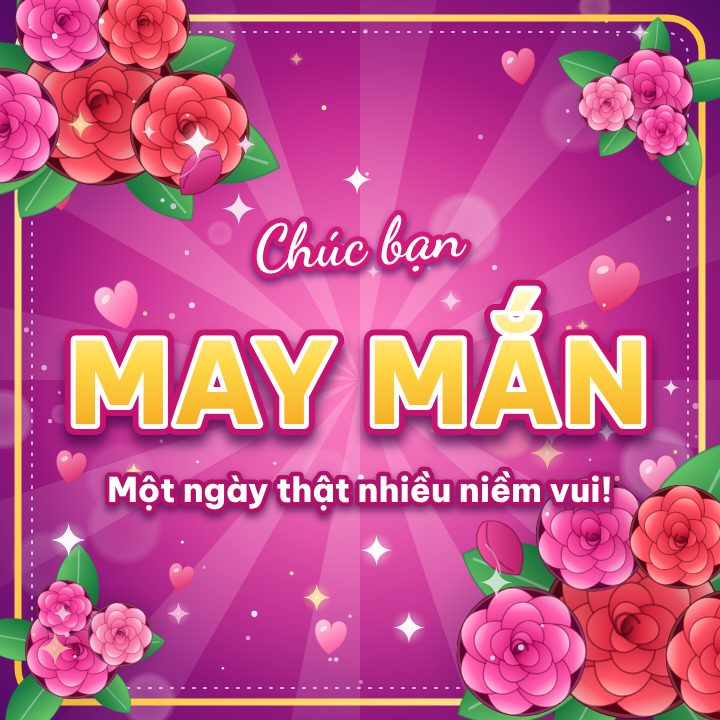
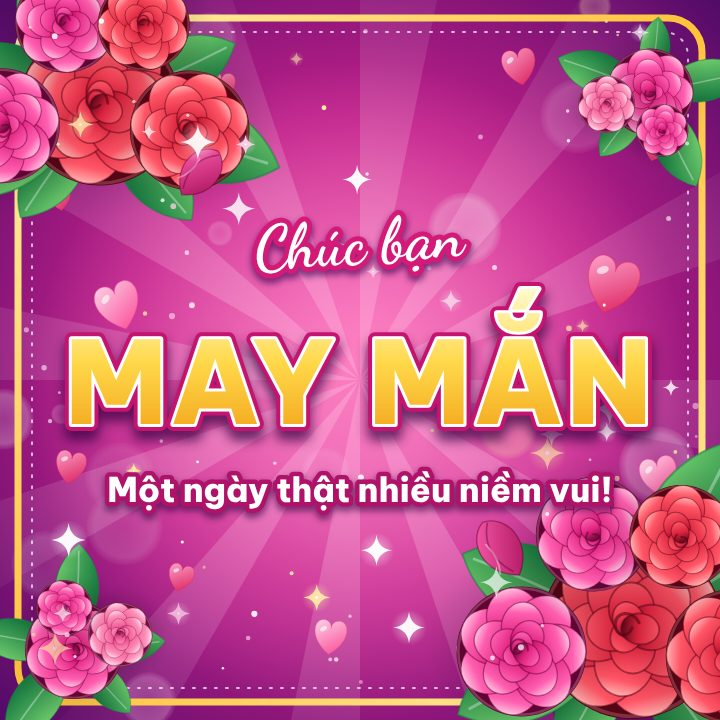
WIP: sửa tiếp sau kiểm thử (audio.js, README, thẻ meme "may mắn")
Bản chụp giữa chừng, workflow sửa lỗi vẫn đang chạy.

Claude-Session: https://claude.ai/code/session_011U6fSh6vttNPLrgiiHWRXL

Changed region(s): [[0.0917, 0.3667, 0.9167, 0.6417]]

diff --git a/public/js/audio.js b/public/js/audio.js
@@ -85,12 +85,14 @@
   }
 
   /* Tiếng hù cho mốc 666: cú "bùm" trầm + tiếng rít răng cưa tụt xuống + chút nhiễu. Tổng ~1.4 giây, không đuôi vang.
-   * Đỉnh sau bộ nén đo được ~0.85 (dưới mức méo tiếng), đủ giật mình mà không chói tai. */
+   * Đo bằng ebur128 thì với mức 0.8 cũ nó to hơn tiếng chuông 3 LU và hơn tiếng mõ 15 LU; mức 0.5 (-4 dB) đưa nó về gần tiếng chuông:
+   * vẫn đủ giật mình mà không làm người đang nghe tiếng mõ nhỏ bị đau tai. */
+  const SCARE_GAIN = 0.5;
   function scare(t) {
     if (!live()) return; t = at(t);
     const D = 1.35, master = AC.createGain();
-    master.gain.setValueAtTime(0.0001, t); master.gain.exponentialRampToValueAtTime(0.8, t + 0.012);
-    master.gain.setValueAtTime(0.8, t + 0.75); master.gain.exponentialRampToValueAtTime(0.0001, t + D);
+    master.gain.setValueAtTime(0.0001, t); master.gain.exponentialRampToValueAtTime(SCARE_GAIN, t + 0.012);
+    master.gain.setValueAtTime(SCARE_GAIN, t + 0.75); master.gain.exponentialRampToValueAtTime(0.0001, t + D);
     master.connect(BUS);
     const boom = AC.createOscillator(), bg = AC.createGain();
     boom.type = 'sine'; boom.frequency.setValueAtTime(110, t); boom.frequency.exponentialRampToValueAtTime(32, t + 0.9);

diff --git a/tools/memes/cards/may-man.html b/tools/memes/cards/may-man.html
@@ -31,7 +31,7 @@ add(roseBunch(R, 74, 650, 0.7, ROSES.hot, { pal2: ROSES.pink, leaves: 5, spots: 
 add(glitter(R, 90, [20, 20, 700, 700], { stars: 0.35, smin: 6, smax: 18, colors: ['#fff', '#ffe9a8', '#ffd1ea', '#fff'] }));
 // chữ
 add(fancy('Chúc bạn', { x: 360, y: 262, size: 62, font: 'Dancing Script', weight: 700, fill: '#fff', out1: '#d41a78', w1: 5, shadow: '#3a0050', sd: 4, sb: 3, so: 0.6, maxW: 400, rot: -4 }));
-add(fancy('MAY MẮN', { x: 360, y: 424, size: 150, font: 'Be Vietnam Pro', weight: 800, ls: 3, fill: lg([[0, '#fffbd0'], [0.45, '#ffd84a'], [1, '#f19a12']]), out1: '#fff', w1: 5, out2: '#c4146f', w2: 6, shadow: '#32003f', sd: 9, sb: 6, so: 0.7, maxW: 600 }));
+add(fancy('MAY MẮN', { x: 360, y: 424, size: 150, font: 'Be Vietnam Pro', weight: 800, ls: 3, fill: lg([[0, '#fffbd0'], [0.45, '#ffd84a'], [1, '#f19a12']]), out1: '#fff', w1: 3, out2: '#c4146f', w2: 4, shadow: '#32003f', sd: 9, sb: 6, so: 0.7, maxW: 600 }));   // viền mảnh hơn để dấu sắc và dấu á trong chữ Ắ không dính vào nhau
 add(fancy('Một ngày thật nhiều niềm vui!', { x: 360, y: 502, size: 34, font: 'Be Vietnam Pro', weight: 800, fill: '#fff', out1: '#b0126a', w1: 4.5, shadow: '#32003f', sd: 4, sb: 3, so: 0.55, maxW: 560 }));
 finish();
 </script></body></html>

diff --git a/README.md b/README.md
@@ -44,11 +44,11 @@ Khi công đức **hôm nay** (số ở thẻ “Công đức” trên đầu tr
 | 666 | Hù: mặt quỷ phóng ra chiếm màn hình khoảng 1,4 giây (một lần chớp đỏ, rung màn hình, tiếng hù), rồi mờ đi và hiện thẻ trấn an “Hù bạn thôi! A Di Đà Phật, chúc bạn bình an 🙏”. |
 | 888, 999, 1.000, 2.000, 3.000… | Bản lớn: tiêu đề vàng to, nhiều hoa giấy hơn, cũng có giọng chúc và meme. |
 
-**Cách tính.** Máy chủ quyết định, không phải trình duyệt. Mốc tính khi một lần cộng đưa công đức hôm nay từ dưới mốc lên bằng hoặc quá mốc (mỗi lần cộng là 1 đến 15 điểm nên có thể nhảy qua đúng con số). Một lần cộng bước qua nhiều mốc thì chỉ hiện một: 666 được ưu tiên, còn lại lấy mốc cao nhất. Tải lại trang hay vào lại chùa khi đã có 700 công đức không chiếu lại mốc cũ. Công đức “hôm nay” tính lại mỗi ngày theo giờ Việt Nam, nên mốc cũng vậy. Đang có một hiệu ứng thì mốc mới xếp hàng chờ (tối đa một, 666 không bao giờ bị bỏ).
+**Cách tính.** Máy chủ quyết định, không phải trình duyệt. Mốc tính khi một lần cộng đưa công đức hôm nay từ dưới mốc lên bằng hoặc quá mốc (mỗi lần cộng là 1 đến 15 điểm nên có thể nhảy qua đúng con số). Một lần cộng bước qua nhiều mốc thì chỉ hiện một: 666 được ưu tiên, còn lại lấy mốc cao nhất. Tải lại trang hay vào lại chùa khi đã có 700 công đức không chiếu lại mốc cũ. Công đức “hôm nay” tính lại mỗi ngày theo giờ Việt Nam, nên mốc cũng vậy. Đang có một hiệu ứng (hay tab đang ẩn) thì mốc mới xếp hàng chờ: tối đa một lượt, 666 được ưu tiên hơn mọi mốc khác. Lượt chờ quá 60 giây (tab bị ẩn lâu) thì không chiếu nữa, kể cả 666, chỉ hiện dòng báo nhỏ “Bạn đã đạt N công đức”.
 
-**Kho meme.** Thả ảnh `.jpg .jpeg .png .webp .gif .avif` vào `public/img/memes/` là tự có, không cần sửa mã (tối đa 200 ảnh, ảnh vuông khoảng 720px đẹp nhất). Máy chủ đọc lại thư mục sau tối đa 30 giây, người chơi nhận danh sách mới khi vào chùa hoặc tải lại trang. Mỗi lần chọn ngẫu nhiên và không lặp lại ảnh vừa hiện. Ảnh lỗi thì bỏ qua, hết ảnh thì thẻ chỉ còn chữ. Mặt quỷ của mốc 666 là `public/img/devil.svg`.
+**Kho meme.** Thả ảnh `.jpg .jpeg .png .webp .gif .avif` vào `public/img/memes/` là tự có, không cần sửa mã (tối đa 200 ảnh, ảnh vuông khoảng 720px đẹp nhất). Máy chủ đọc lại thư mục sau tối đa 30 giây, người chơi nhận danh sách mới khi vào chùa hoặc tải lại trang. Mỗi lần chọn ngẫu nhiên và không lặp lại ảnh vừa hiện. Ảnh lỗi thì bỏ qua, hết ảnh thì thẻ chỉ còn chữ. Nên đặt tên file không dấu và ngắn: tên có byte lỗi mã hóa hay dài quá (địa chỉ từ 300 ký tự) sẽ bị bỏ qua. Mặt quỷ của mốc 666 là `public/img/devil.svg`.
 
-**Giọng chúc.** Các file giọng đọc nằm trong `public/audio/blessings/`, kèm `manifest.json`:
+**Giọng chúc.** Bốn câu chúc giọng nữ (VieNeu-TTS v3 Turbo, giọng “Trúc Ly”) đã có sẵn trong `public/audio/blessings/`, kèm `manifest.json`; tạo lại bằng `tools/build_blessing_voice.py`. Muốn thêm câu hay đổi giọng thì sửa `manifest.json` (lưu UTF-8, có BOM cũng được; file lỗi thì máy chủ ghi một dòng cảnh báo vào log và trình duyệt đọc bằng giọng máy):
 
 ```json
 { "lines": [
@@ -57,16 +57,16 @@ Khi công đức **hôm nay** (số ở thẻ “Công đức” trên đầu tr
 ] }
 ```
 
-Mỗi lần hiện, trình duyệt chọn ngẫu nhiên một dòng, phát file và hiện đúng câu `text` bên dưới meme. `file` chỉ là tên file thường (`.mp3 .ogg .m4a .wav`, chỉ gồm chữ không dấu, số, `.`, `-`, `_`, không có dấu `/`), máy chủ bỏ qua dòng sai hoặc file không tồn tại. Không có file giọng nào thì trình duyệt tự đọc bằng `speechSynthesis` (tiếng Việt, ưu tiên giọng nữ như HoaiMy, Linh, Google tiếng Việt); máy không có giọng tiếng Việt hay giọng không lên tiếng thì chỉ còn tiếng chuông ting nhẹ. Nút tắt tiếng trên đầu trang tắt mọi âm thanh của hiệu ứng, kể cả giọng đọc.
+Mỗi lần hiện, trình duyệt chọn ngẫu nhiên một dòng, phát file và hiện đúng câu `text` bên dưới meme. `file` chỉ là tên file thường (`.mp3 .ogg .m4a .wav`, chỉ gồm chữ không dấu, số, `.`, `-`, `_`, không có dấu `/`), máy chủ bỏ qua dòng sai hoặc file không tồn tại. Không có file giọng nào (hay file không tải được) thì trình duyệt tự đọc bằng `speechSynthesis` (tiếng Việt, chỉ nhận giọng nữ như HoaiMy, Linh, Google tiếng Việt; giọng nam như An, NamMinh bị loại); máy không có giọng nữ tiếng Việt hay giọng không lên tiếng thì chỉ còn tiếng chuông ting nhẹ. Nút tắt tiếng trên đầu trang tắt mọi âm thanh của hiệu ứng, kể cả giọng đọc.
 
-**Xem thử.** Mở `http://localhost:3000/?celebrate=100` (hoặc `300`, `666`, `999`, `2000`…): hiệu ứng chạy một lần sau khi vào chùa mà không cần đủ công đức. Hoặc gõ `Celebrate.test(666)` trong console của trình duyệt.
+**Xem thử.** Mở `http://localhost:3000/?celebrate=100` (hoặc `300`, `999`, `2000`…): hiệu ứng chạy một lần sau khi vào chùa mà không cần đủ công đức. Riêng `?celebrate=666` có hộp hỏi xác nhận trước khi hù (từ chối thì chỉ hiện thẻ chúc mừng), để liên kết gửi cho người khác không tự hù họ. Hoặc gõ `Celebrate.test(666)` trong console của trình duyệt.
 
 **Tắt hiệu ứng.** Vào tab **Công đức**, thẻ **Hiệu ứng** có hai ô, lưu ngay trên máy (`localStorage`: `ta-fx`, `ta-scare`):
 
 - “Hiệu ứng chúc mừng ở các mốc công đức”: tắt thì chỉ còn dòng thông báo nhỏ “Bạn đạt N công đức”, kể cả mốc 666.
 - “Cho phép hù ở mốc 666”: tắt thì mốc 666 hiện lời chúc bình thường thay cho mặt quỷ.
 
-Người bật chế độ giảm chuyển động của hệ điều hành (`prefers-reduced-motion`) không bị rung, phóng to, chớp hay hạt bay: hình chỉ mờ hiện, mặt quỷ hiện mờ 0,2 giây không chớp đỏ. Chạm vào màn hình hoặc nhấn Esc để đóng sớm (trừ khoảng 0,7 giây đầu để người đang gõ mõ liên tục không lỡ tay tắt mất).
+Người bật chế độ giảm chuyển động của hệ điều hành (`prefers-reduced-motion`) không bị rung, phóng to, chớp hay hạt bay: hình chỉ mờ hiện, mặt quỷ hiện mờ 0,2 giây không chớp đỏ. Chạm vào màn hình hoặc nhấn Esc để đóng sớm, nút × luôn đóng được. Chạm lên màn hình chỉ đóng khi trước đó đã ngừng chạm khoảng 0,9 giây (và sau 0,7 giây đầu), để người đang gõ mõ liên tục không lỡ tay tắt mất lời chúc; mỗi cú chạm bị bỏ qua làm đồng hồ này tính lại. Tab không lọt ra các nút phía sau lớp phủ. Điện thoại xoay ngang (màn thấp) thì thẻ xếp thành hàng, meme bên trái, chữ bên phải.
 
 Nguồn và giấy phép của ảnh, mặt quỷ, giọng đọc ghi trong `public/img/NOTICE.txt` và `public/audio/NOTICE.txt`.
 
@@ -179,7 +179,7 @@ public/js/audio.js     mõ, chuông, giọng tụng, clip lời chúc, tiếng h
 public/js/celebrate.js hiệu ứng chúc mừng ở mốc công đức (meme, giọng chúc, hù 666)
 public/css/celebrate.css giao diện của hiệu ứng trên
 public/img/memes/      kho meme (thả ảnh vào là tự có), public/img/devil.svg cho mốc 666
-public/audio/blessings/ giọng chúc + manifest.json
+public/audio/blessings/ giọng chúc (4 file mp3 + manifest.json)
 public/js/chants.js    bài tụng (dùng chung cho máy chủ và trình duyệt)
 public/js/lunar.js     lịch âm
 public/js/app.js       kết nối và giao diện
